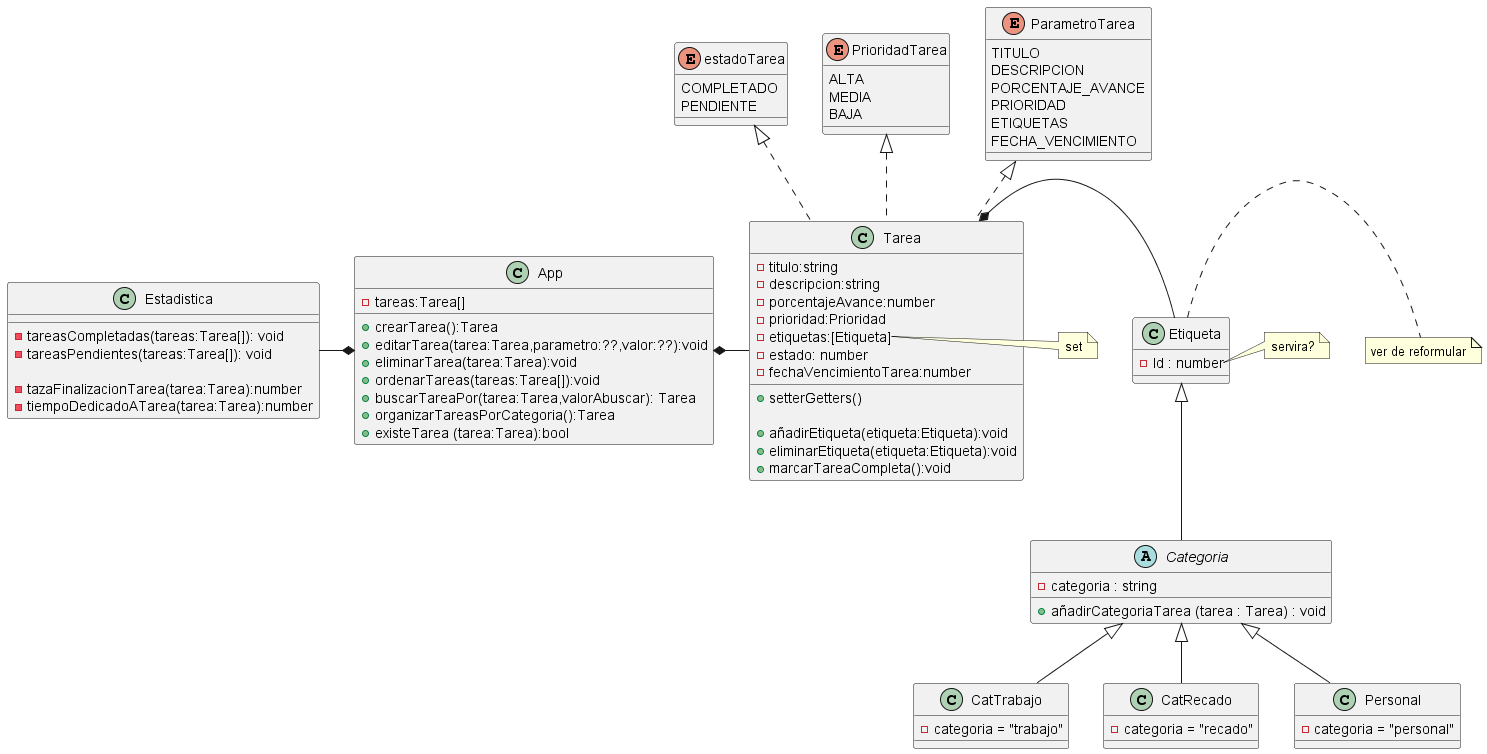
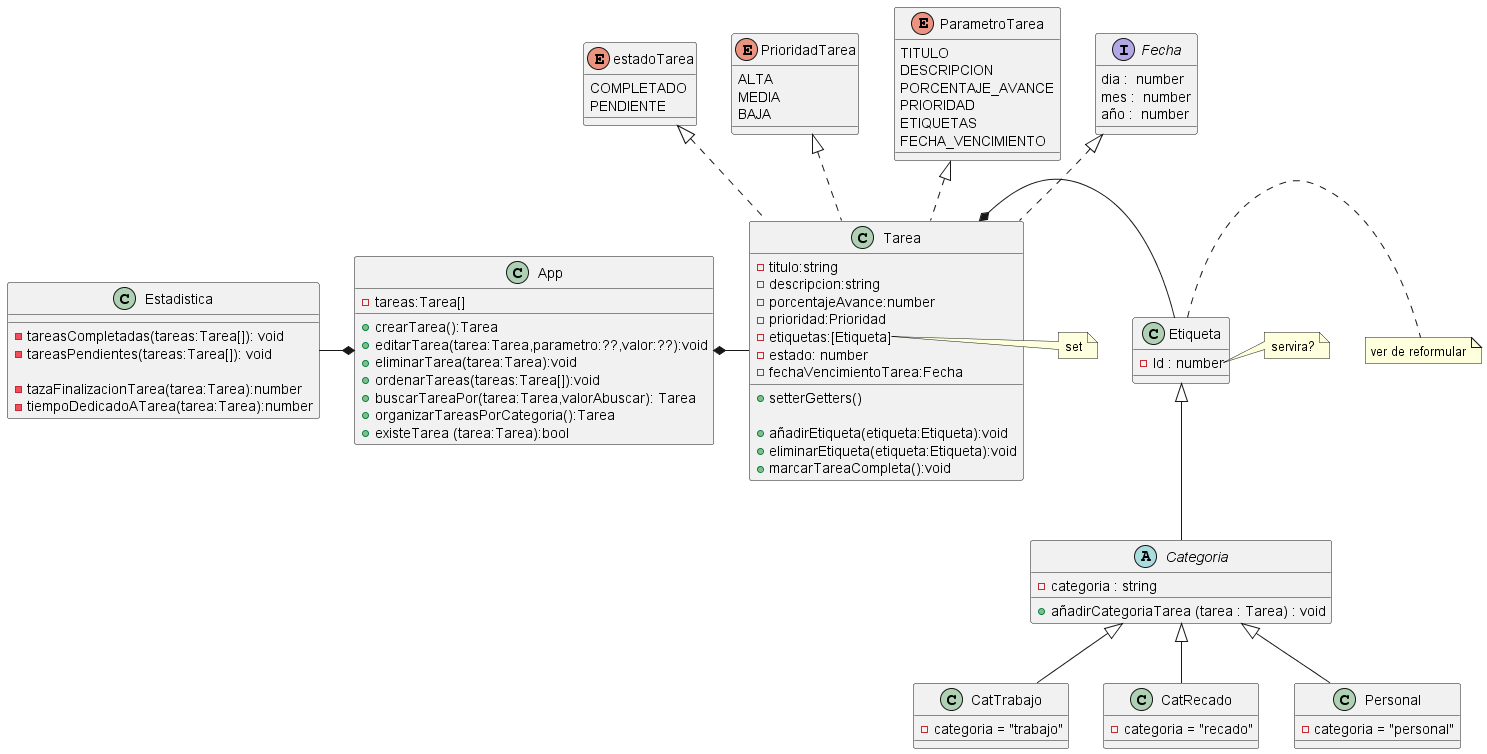
Interfaz Fecha
Se agrego interfaz Fecha y  se actualizo el diagrama

Changed region(s): [[0.3712, 0.0, 0.8043, 0.2135], [0.6187, 0.4881, 0.6496, 0.5186]]

diff --git a/src/Interfaces/fecha.ts b/src/Interfaces/fecha.ts
@@ -1,0 +1,5 @@
+export interface Fecha{
+    dia :  number;
+    mes :  number;
+    año :  number; 
+}
